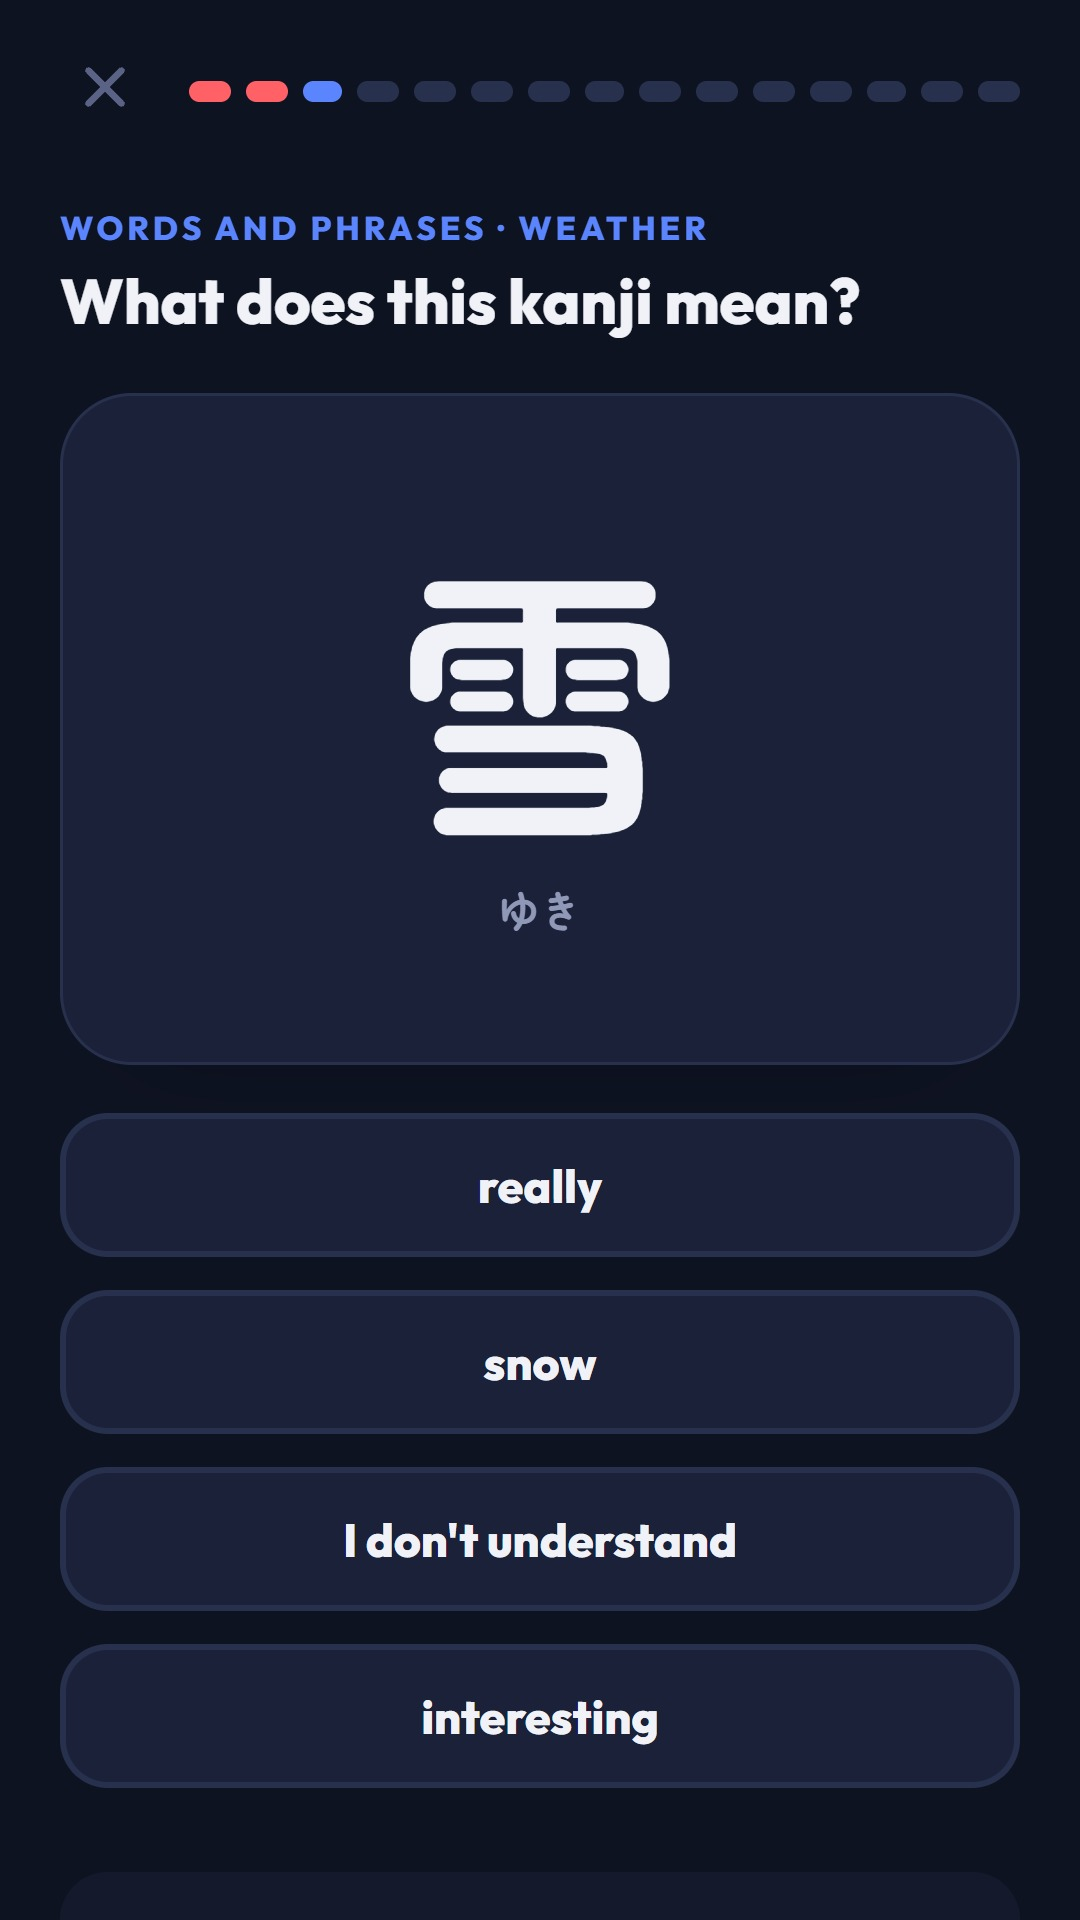
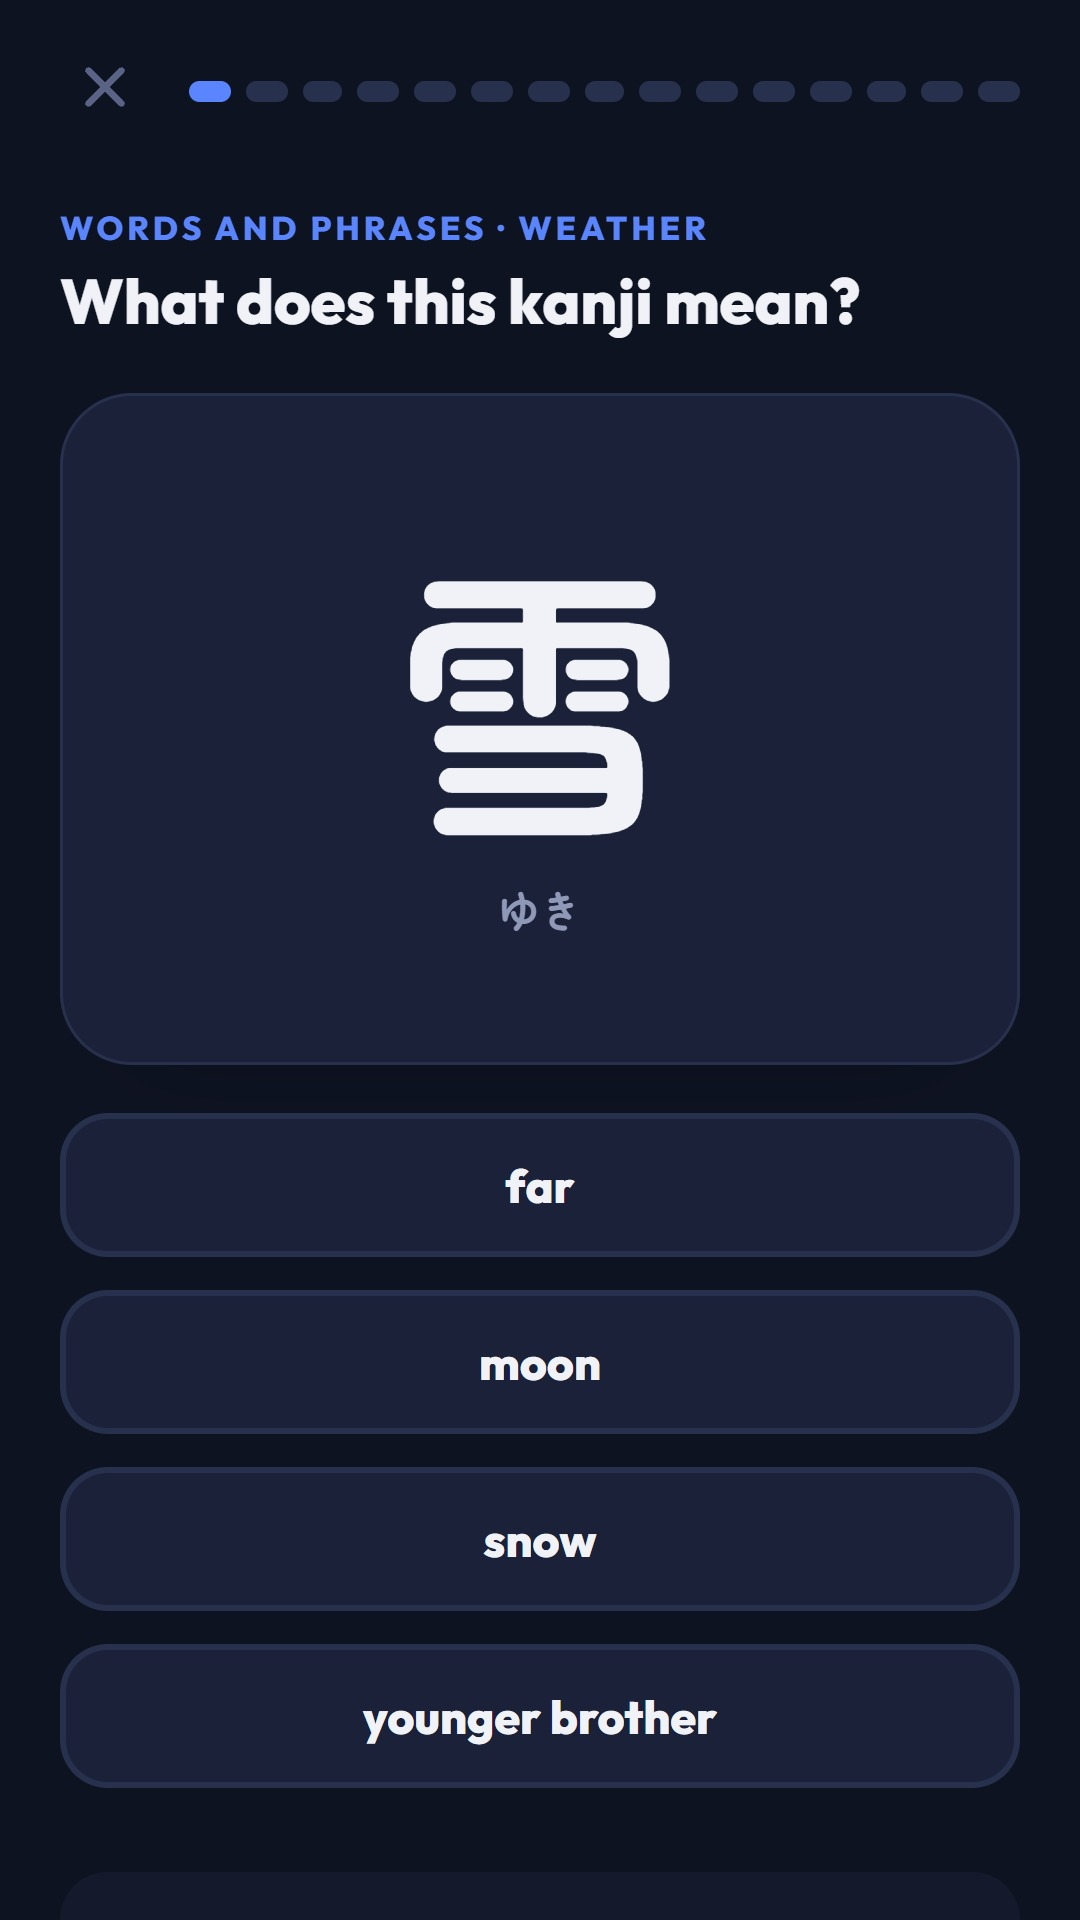
Add marketing frames + per-shot state assertions to store pipeline
- scripts/screenshots.mjs: every shot now asserts must/not text markers
  and the run exits non-zero on a wrong capture; lesson shot (02) uses
  the solver instead of probabilistic first-option clicking
- scripts/store-assets.mjs: composes store/marketing/*.jpg — each
  screenshot captioned in a rounded frame on the brand background,
  exactly 1080x1920 for direct Play Console upload
- npm run shots / npm run store-assets

diff --git a/docs/status.md b/docs/status.md
@@ -112,7 +112,12 @@ The app is a complete, shippable PWA. All core flows are implemented:
 
 - **Play Store launch prep** (2026-07-02) — listing assets ready, awaiting Console setup:
   - `store/play-listing.md` — all listing copy + Console form answers (data safety, rating, target audience).
-  - `store/feature-graphic.png` (1024×500) via new `scripts/store-assets.mjs` (needs dev server running).
+  - `store/feature-graphic.png` (1024×500) + `store/marketing/*.jpg` (captioned 1080×1920 frames of
+    each screenshot — upload these to Play, not the raw shots) via `scripts/store-assets.mjs`
+    (`npm run store-assets`; needs dev server + fresh `screenshots/`).
+  - `npm run shots` regenerates screenshots **and asserts each captured state** (per-shot
+    must/not text markers; exits non-zero on a wrong screen — this caught a real capture bug on
+    first run).
   - `screenshots/` regenerated at 1080×1920 (exactly 9:16 — Play rejects >2:1; don't revert the
     360×640@3x viewport in `scripts/screenshots.mjs`). Script now clears `hk-home-sel` on load
     (v1.16 persistence was pinning the focus card to chapter 0) and solves the vowels lesson for a
